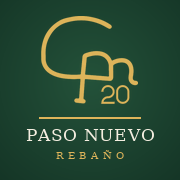
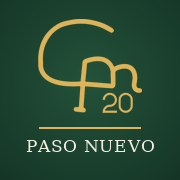
Quitar la palabra Rebaño del ícono
Claude-Session: https://claude.ai/code/session_012H2dDCmRpRXrYkshWNF9in

Changed region(s): [[0.1944, 0.1944, 0.8056, 0.6667], [0.1389, 0.6944, 0.8611, 0.8889], [0.25, 0.0833, 0.6389, 0.1944]]

diff --git a/sw.js b/sw.js
@@ -1,6 +1,6 @@
 // Guarda la app completa en el teléfono para que abra sin internet.
 // Al actualizar los datos, cambiar VERSION para que el teléfono baje la copia nueva.
-const VERSION = 'rebano-2026-10-24-logo';
+const VERSION = 'rebano-2026-10-24-logo2';
 const FILES = ['./', './index.html', './manifest.json', './apple-touch-icon.png', './icon-192.png', './icon-512.png'];
 
 self.addEventListener('install', e => {
